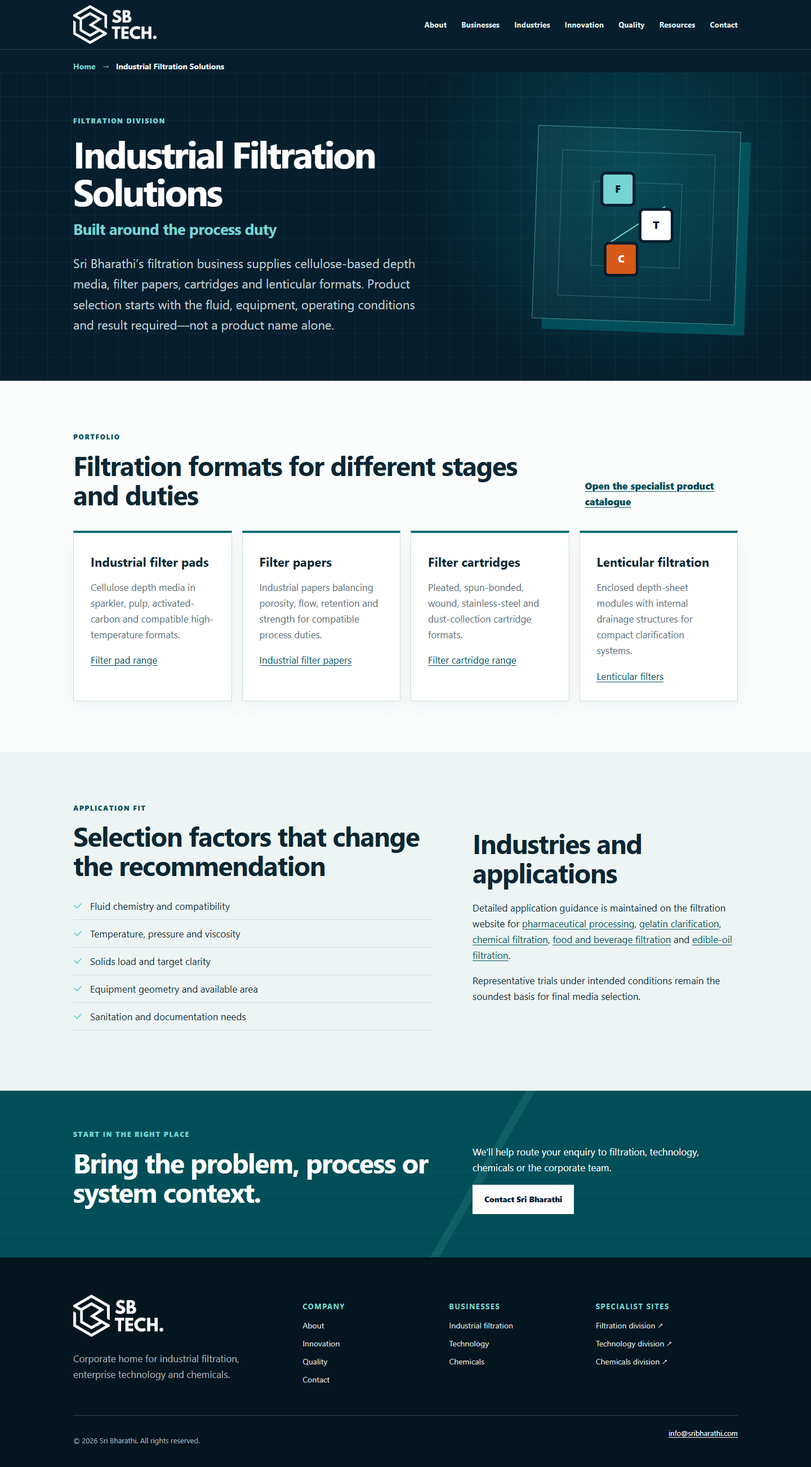
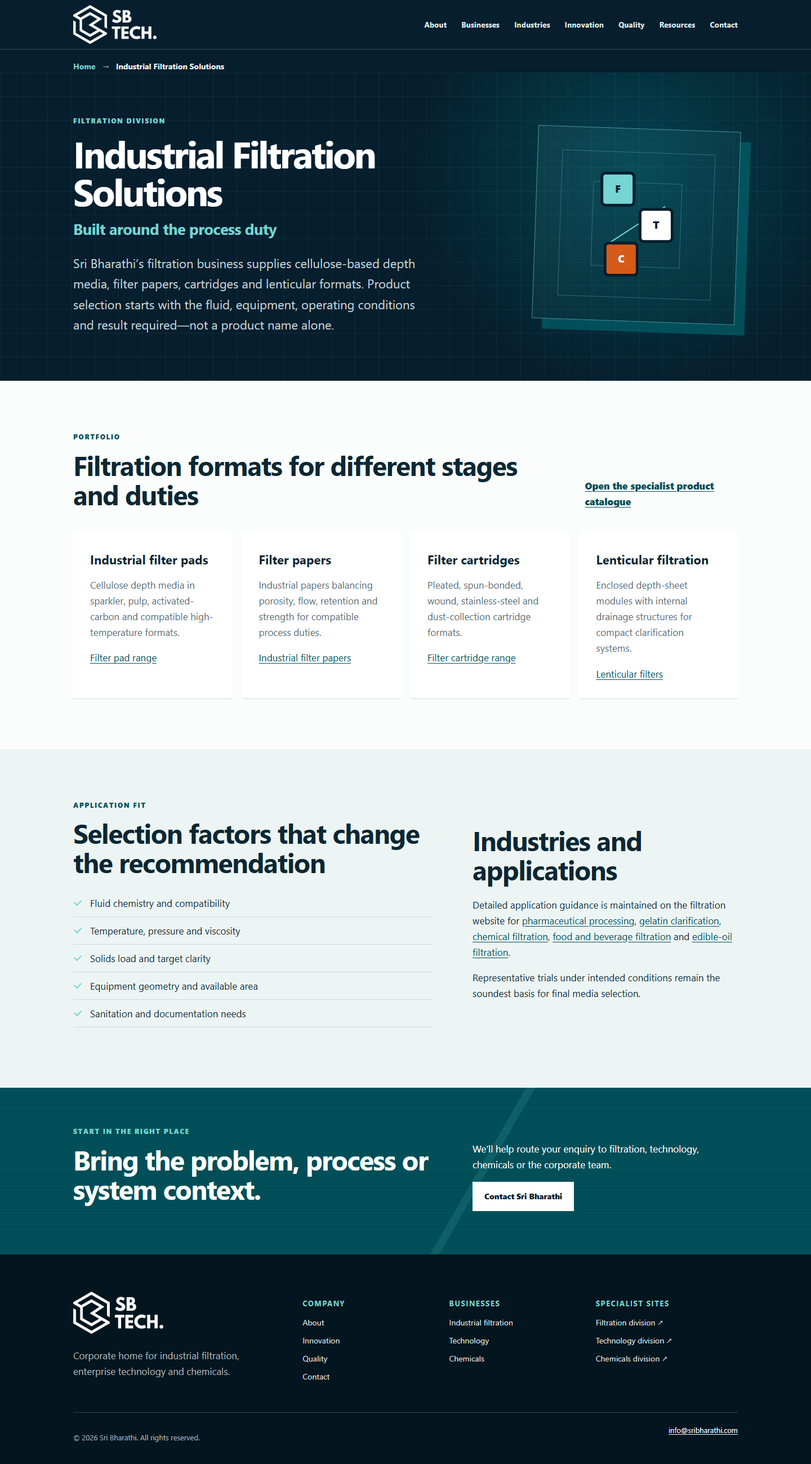
Refactor business overview sections and update HTML structure for improved clarity and navigation
- Updated index.html to replace the business overview section with a new division panel layout for better user experience.
- Modified generate-site.mjs to dynamically generate division panels for filtration, technology, and chemicals.
- Adjusted CSS styles for division panels to enhance responsiveness and visual appeal.
- Updated various screenshots to reflect recent design changes.

diff --git a/businesses/index.html b/businesses/index.html
@@ -1,1 +1,1 @@
-<!doctype html><html lang="en-IN"><head><meta charset="utf-8"><meta name="viewport" content="width=device-width,initial-scale=1"><title>Sri Bharathi Businesses | Filtration, Technology & Chemicals</title><meta name="description" content="Compare Sri Bharathi’s filtration, technology and chemicals businesses and find the specialist division for your technical requirement."><meta name="robots" content="index,follow,max-image-preview:large"><link rel="canonical" href="https://sribharathi.com/businesses/"><meta property="og:type" content="website"><meta property="og:site_name" content="Sri Bharathi"><meta property="og:title" content="Sri Bharathi Businesses | Filtration, Technology & Chemicals"><meta property="og:description" content="Compare Sri Bharathi’s filtration, technology and chemicals businesses and find the specialist division for your technical requirement."><meta property="og:url" content="https://sribharathi.com/businesses/"><meta property="og:image" content="https://sribharathi.com/assets/images/sri-bharathi-logo.png"><meta name="twitter:card" content="summary_large_image"><meta name="twitter:title" content="Sri Bharathi Businesses | Filtration, Technology & Chemicals"><meta name="twitter:description" content="Compare Sri Bharathi’s filtration, technology and chemicals businesses and find the specialist division for your technical requirement."><meta name="theme-color" content="#061e2d"><link rel="icon" href="/favicon.ico" sizes="any"><link rel="icon" href="/assets/favicon-32.png" type="image/png" sizes="32x32"><link rel="apple-touch-icon" href="/assets/apple-touch-icon.png" sizes="180x180"><link rel="stylesheet" href="/assets/styles.css"><script type="application/ld+json">{"@context":"https://schema.org","@graph":[{"@type":"Organization","@id":"https://sribharathi.com/#organization","name":"Sri Bharathi","url":"https://sribharathi.com/","logo":{"@type":"ImageObject","url":"https://sribharathi.com/assets/images/sri-bharathi-logo.png"},"email":"info@sribharathi.com","telephone":"+91-94202-20324","subOrganization":[{"@type":"Organization","name":"Sri Bharathi Filtration Division","url":"https://filter.sribharathi.com/"},{"@type":"Organization","name":"Sri Bharathi Tech","url":"https://tech.sribharathi.com/"},{"@type":"Organization","name":"Sri Bharathi Chemicals","url":"https://chemical.sribharathi.com/"}]},{"@type":"WebSite","@id":"https://sribharathi.com/#website","url":"https://sribharathi.com/","name":"Sri Bharathi","publisher":{"@id":"https://sribharathi.com/#organization"},"inLanguage":"en-IN"},{"@type":"WebPage","@id":"https://sribharathi.com/businesses/#webpage","url":"https://sribharathi.com/businesses/","name":"Sri Bharathi Businesses | Filtration, Technology & Chemicals","description":"Compare Sri Bharathi’s filtration, technology and chemicals businesses and find the specialist division for your technical requirement.","isPartOf":{"@id":"https://sribharathi.com/#website"},"about":{"@id":"https://sribharathi.com/#organization"},"inLanguage":"en-IN","breadcrumb":{"@id":"https://sribharathi.com/businesses/#breadcrumb"}},{"@type":"BreadcrumbList","@id":"https://sribharathi.com/businesses/#breadcrumb","itemListElement":[{"@type":"ListItem","position":1,"name":"Home","item":"https://sribharathi.com/"},{"@type":"ListItem","position":2,"name":"Sri Bharathi Business Divisions","item":"https://sribharathi.com/businesses/"}]}]}</script><script src="/assets/site.js" defer></script></head><body><header class="site-header"><div class="wrap header-inner"><a class="brand" href="/" aria-label="Sri Bharathi home"><img src="/assets/images/sri-bharathi-logo.png" width="220" height="103" alt="Sri Bharathi" decoding="async"></a><nav class="desktop-nav" aria-label="Primary"><a href="/about/">About</a><a href="/businesses/" aria-current="page">Businesses</a><a href="/industries/">Industries</a><a href="/innovation/">Innovation</a><a href="/quality/">Quality</a><a href="/resources/">Resources</a><a href="/contact/">Contact</a></nav><button class="menu-button" type="button" aria-expanded="false" aria-controls="mobile-nav"><span class="sr-only">Open navigation</span><i></i><i></i><i></i></button></div><nav id="mobile-nav" class="mobile-nav" aria-label="Mobile" hidden><a href="/about/">About</a><a href="/businesses/" aria-current="page">Businesses</a><a href="/industries/">Industries</a><a href="/innovation/">Innovation</a><a href="/quality/">Quality</a><a href="/resources/">Resources</a><a href="/contact/">Contact</a></nav></header><nav class="breadcrumbs wrap" aria-label="Breadcrumb"><ol><li><a href="/">Home</a></li><li><span aria-current="page">Sri Bharathi Business Divisions</span></li></ol></nav><main id="main"><section class="hero inner-hero"><div class="wrap hero-grid"><div><p class="eyebrow">Our businesses</p><h1>Sri Bharathi Business Divisions</h1><p class="hero-statement">Three businesses, clearly defined</p><p class="lede">Each Sri Bharathi business has a distinct technical focus and specialist website. Use this overview to understand the boundaries, capabilities and most useful next destination.</p></div><div class="hero-mark" aria-hidden="true"><span>F</span><span>T</span><span>C</span><i></i></div></div></section><section class="wrap section"><div class="business-row"><div class="business-index">01</div><div><h2>Industrial filtration</h2><p>Manufactured filtration media and components for clarification, polishing and compatible particulate-control duties.</p><ul class="inline-list"><li>Filter pads</li><li>Filter papers</li><li>Cartridges</li><li>Lenticular filters</li></ul></div><div class="actions"><a class="button" href="/filtration/">Corporate filtration overview</a><a class="text-link" href="https://filter.sribharathi.com/">Specialist filtration website</a></div></div><div class="business-row"><div class="business-index">02</div><div><h2>Technology</h2><p>Enterprise software services spanning mainframe modernisation, Java development, AI and machine learning, testing and mobile applications.</p><ul class="inline-list"><li>Modernisation</li><li>Java</li><li>AI &amp; ML</li><li>Quality engineering</li></ul></div><div class="actions"><a class="button" href="/technology/">Corporate technology overview</a><a class="text-link" href="https://tech.sribharathi.com/">Specialist technology website</a></div></div><div class="business-row"><div class="business-index">03</div><div><h2>Chemicals</h2><p>Customer-led chemical manufacturing services, including contract manufacturing, custom manufacturing, blending and private labelling.</p><ul class="inline-list"><li>Contract manufacturing</li><li>Custom manufacture</li><li>Blending</li></ul></div><div class="actions"><a class="button" href="/chemicals/">Corporate chemicals overview</a><a class="text-link" href="https://chemical.sribharathi.com/">Specialist chemicals website</a></div></div></section><section class="cta"><div class="wrap split"><div><p class="eyebrow">Start in the right place</p><h2>Bring the problem, process or system context.</h2></div><div><p>We’ll help route your enquiry to filtration, technology, chemicals or the corporate team.</p><a class="button light" href="/contact/">Contact Sri Bharathi</a></div></div></section></main><footer class="site-footer"><div class="wrap footer-grid"><div><img src="/assets/images/sri-bharathi-logo.png" width="190" height="89" alt="Sri Bharathi" loading="lazy" decoding="async"><p>Corporate home for industrial filtration, enterprise technology and chemicals.</p></div><div><h2>Company</h2><a href="/about/">About</a><a href="/innovation/">Innovation</a><a href="/quality/">Quality</a><a href="/contact/">Contact</a></div><div><h2>Businesses</h2><a href="/filtration/">Industrial filtration</a><a href="/technology/">Technology</a><a href="/chemicals/">Chemicals</a></div><div><h2>Specialist sites</h2><a href="https://filter.sribharathi.com/">Filtration division ↗</a><a href="https://tech.sribharathi.com/">Technology division ↗</a><a href="https://chemical.sribharathi.com/">Chemicals division ↗</a></div></div><div class="wrap footer-base"><p>© 2026 Sri Bharathi. All rights reserved.</p><a href="mailto:info@sribharathi.com">info@sribharathi.com</a></div></footer></body></html>
+<!doctype html><html lang="en-IN"><head><meta charset="utf-8"><meta name="viewport" content="width=device-width,initial-scale=1"><title>Sri Bharathi Businesses | Filtration, Technology & Chemicals</title><meta name="description" content="Compare Sri Bharathi’s filtration, technology and chemicals businesses and find the specialist division for your technical requirement."><meta name="robots" content="index,follow,max-image-preview:large"><link rel="canonical" href="https://sribharathi.com/businesses/"><meta property="og:type" content="website"><meta property="og:site_name" content="Sri Bharathi"><meta property="og:title" content="Sri Bharathi Businesses | Filtration, Technology & Chemicals"><meta property="og:description" content="Compare Sri Bharathi’s filtration, technology and chemicals businesses and find the specialist division for your technical requirement."><meta property="og:url" content="https://sribharathi.com/businesses/"><meta property="og:image" content="https://sribharathi.com/assets/images/sri-bharathi-logo.png"><meta name="twitter:card" content="summary_large_image"><meta name="twitter:title" content="Sri Bharathi Businesses | Filtration, Technology & Chemicals"><meta name="twitter:description" content="Compare Sri Bharathi’s filtration, technology and chemicals businesses and find the specialist division for your technical requirement."><meta name="theme-color" content="#061e2d"><link rel="icon" href="/favicon.ico" sizes="any"><link rel="icon" href="/assets/favicon-32.png" type="image/png" sizes="32x32"><link rel="apple-touch-icon" href="/assets/apple-touch-icon.png" sizes="180x180"><link rel="stylesheet" href="/assets/styles.css"><script type="application/ld+json">{"@context":"https://schema.org","@graph":[{"@type":"Organization","@id":"https://sribharathi.com/#organization","name":"Sri Bharathi","url":"https://sribharathi.com/","logo":{"@type":"ImageObject","url":"https://sribharathi.com/assets/images/sri-bharathi-logo.png"},"email":"info@sribharathi.com","telephone":"+91-94202-20324","subOrganization":[{"@type":"Organization","name":"Sri Bharathi Filtration Division","url":"https://filter.sribharathi.com/"},{"@type":"Organization","name":"Sri Bharathi Tech","url":"https://tech.sribharathi.com/"},{"@type":"Organization","name":"Sri Bharathi Chemicals","url":"https://chemical.sribharathi.com/"}]},{"@type":"WebSite","@id":"https://sribharathi.com/#website","url":"https://sribharathi.com/","name":"Sri Bharathi","publisher":{"@id":"https://sribharathi.com/#organization"},"inLanguage":"en-IN"},{"@type":"WebPage","@id":"https://sribharathi.com/businesses/#webpage","url":"https://sribharathi.com/businesses/","name":"Sri Bharathi Businesses | Filtration, Technology & Chemicals","description":"Compare Sri Bharathi’s filtration, technology and chemicals businesses and find the specialist division for your technical requirement.","isPartOf":{"@id":"https://sribharathi.com/#website"},"about":{"@id":"https://sribharathi.com/#organization"},"inLanguage":"en-IN","breadcrumb":{"@id":"https://sribharathi.com/businesses/#breadcrumb"}},{"@type":"BreadcrumbList","@id":"https://sribharathi.com/businesses/#breadcrumb","itemListElement":[{"@type":"ListItem","position":1,"name":"Home","item":"https://sribharathi.com/"},{"@type":"ListItem","position":2,"name":"Sri Bharathi Business Divisions","item":"https://sribharathi.com/businesses/"}]}]}</script><script src="/assets/site.js" defer></script></head><body><header class="site-header"><div class="wrap header-inner"><a class="brand" href="/" aria-label="Sri Bharathi home"><img src="/assets/images/sri-bharathi-logo.png" width="220" height="103" alt="Sri Bharathi" decoding="async"></a><nav class="desktop-nav" aria-label="Primary"><a href="/about/">About</a><a href="/businesses/" aria-current="page">Businesses</a><a href="/industries/">Industries</a><a href="/innovation/">Innovation</a><a href="/quality/">Quality</a><a href="/resources/">Resources</a><a href="/contact/">Contact</a></nav><button class="menu-button" type="button" aria-expanded="false" aria-controls="mobile-nav"><span class="sr-only">Open navigation</span><i></i><i></i><i></i></button></div><nav id="mobile-nav" class="mobile-nav" aria-label="Mobile" hidden><a href="/about/">About</a><a href="/businesses/" aria-current="page">Businesses</a><a href="/industries/">Industries</a><a href="/innovation/">Innovation</a><a href="/quality/">Quality</a><a href="/resources/">Resources</a><a href="/contact/">Contact</a></nav></header><nav class="breadcrumbs wrap" aria-label="Breadcrumb"><ol><li><a href="/">Home</a></li><li><span aria-current="page">Sri Bharathi Business Divisions</span></li></ol></nav><main id="main"><section class="hero inner-hero"><div class="wrap hero-grid"><div><p class="eyebrow">Our businesses</p><h1>Sri Bharathi Business Divisions</h1><p class="hero-statement">Three businesses, clearly defined</p><p class="lede">Each Sri Bharathi business has a distinct technical focus and specialist website. Use this overview to understand the boundaries, capabilities and most useful next destination.</p></div><div class="hero-mark" aria-hidden="true"><span>F</span><span>T</span><span>C</span><i></i></div></div></section><section class="division-panels" aria-label="Sri Bharathi business divisions"><a class="division-panel division-filtration" href="/filtration/"><span class="division-index">01</span><span class="division-body"><h2>Filtration</h2><p>Filter pads, papers, cartridges and lenticular systems for clarification duties.</p></span><span class="division-cta">Go to filtration<i aria-hidden="true"></i></span></a><a class="division-panel division-technology" href="/technology/"><span class="division-index">02</span><span class="division-body"><h2>Technology</h2><p>Enterprise software, modernisation, AI and quality engineering services.</p></span><span class="division-cta">Go to technology<i aria-hidden="true"></i></span></a><a class="division-panel division-chemicals" href="/chemicals/"><span class="division-index">03</span><span class="division-body"><h2>Chemicals</h2><p>Contract manufacturing, custom manufacture, blending and private labelling.</p></span><span class="division-cta">Go to chemicals<i aria-hidden="true"></i></span></a></section><section class="wrap section"><div class="business-row"><div class="business-index">01</div><div><h2>Industrial filtration</h2><p>Manufactured filtration media and components for clarification, polishing and compatible particulate-control duties.</p><ul class="inline-list"><li>Filter pads</li><li>Filter papers</li><li>Cartridges</li><li>Lenticular filters</li></ul></div><div class="actions"><a class="button" href="/filtration/">Corporate filtration overview</a><a class="text-link" href="https://filter.sribharathi.com/">Specialist filtration website</a></div></div><div class="business-row"><div class="business-index">02</div><div><h2>Technology</h2><p>Enterprise software services spanning mainframe modernisation, Java development, AI and machine learning, testing and mobile applications.</p><ul class="inline-list"><li>Modernisation</li><li>Java</li><li>AI &amp; ML</li><li>Quality engineering</li></ul></div><div class="actions"><a class="button" href="/technology/">Corporate technology overview</a><a class="text-link" href="https://tech.sribharathi.com/">Specialist technology website</a></div></div><div class="business-row"><div class="business-index">03</div><div><h2>Chemicals</h2><p>Customer-led chemical manufacturing services, including contract manufacturing, custom manufacturing, blending and private labelling.</p><ul class="inline-list"><li>Contract manufacturing</li><li>Custom manufacture</li><li>Blending</li></ul></div><div class="actions"><a class="button" href="/chemicals/">Corporate chemicals overview</a><a class="text-link" href="https://chemical.sribharathi.com/">Specialist chemicals website</a></div></div></section><section class="cta"><div class="wrap split"><div><p class="eyebrow">Start in the right place</p><h2>Bring the problem, process or system context.</h2></div><div><p>We’ll help route your enquiry to filtration, technology, chemicals or the corporate team.</p><a class="button light" href="/contact/">Contact Sri Bharathi</a></div></div></section></main><footer class="site-footer"><div class="wrap footer-grid"><div><img src="/assets/images/sri-bharathi-logo.png" width="190" height="89" alt="Sri Bharathi" loading="lazy" decoding="async"><p>Corporate home for industrial filtration, enterprise technology and chemicals.</p></div><div><h2>Company</h2><a href="/about/">About</a><a href="/innovation/">Innovation</a><a href="/quality/">Quality</a><a href="/contact/">Contact</a></div><div><h2>Businesses</h2><a href="/filtration/">Industrial filtration</a><a href="/technology/">Technology</a><a href="/chemicals/">Chemicals</a></div><div><h2>Specialist sites</h2><a href="https://filter.sribharathi.com/">Filtration division ↗</a><a href="https://tech.sribharathi.com/">Technology division ↗</a><a href="https://chemical.sribharathi.com/">Chemicals division ↗</a></div></div><div class="wrap footer-base"><p>© 2026 Sri Bharathi. All rights reserved.</p><a href="mailto:info@sribharathi.com">info@sribharathi.com</a></div></footer></body></html>

diff --git a/index.html b/index.html
@@ -1,12 +1,5 @@
 <!doctype html><html lang="en-IN"><head><meta charset="utf-8"><meta name="viewport" content="width=device-width,initial-scale=1"><title>Sri Bharathi | Filtration, Technology & Chemicals</title><meta name="description" content="Discover Sri Bharathi, the corporate parent connecting specialist businesses in industrial filtration, enterprise technology and chemical manufacturing."><meta name="robots" content="index,follow,max-image-preview:large"><link rel="canonical" href="https://sribharathi.com/"><meta property="og:type" content="website"><meta property="og:site_name" content="Sri Bharathi"><meta property="og:title" content="Sri Bharathi | Filtration, Technology & Chemicals"><meta property="og:description" content="Discover Sri Bharathi, the corporate parent connecting specialist businesses in industrial filtration, enterprise technology and chemical manufacturing."><meta property="og:url" content="https://sribharathi.com/"><meta property="og:image" content="https://sribharathi.com/assets/images/sri-bharathi-logo.png"><meta name="twitter:card" content="summary_large_image"><meta name="twitter:title" content="Sri Bharathi | Filtration, Technology & Chemicals"><meta name="twitter:description" content="Discover Sri Bharathi, the corporate parent connecting specialist businesses in industrial filtration, enterprise technology and chemical manufacturing."><meta name="theme-color" content="#061e2d"><link rel="icon" href="/favicon.ico" sizes="any"><link rel="icon" href="/assets/favicon-32.png" type="image/png" sizes="32x32"><link rel="apple-touch-icon" href="/assets/apple-touch-icon.png" sizes="180x180"><link rel="stylesheet" href="/assets/styles.css"><script type="application/ld+json">{"@context":"https://schema.org","@graph":[{"@type":"Organization","@id":"https://sribharathi.com/#organization","name":"Sri Bharathi","url":"https://sribharathi.com/","logo":{"@type":"ImageObject","url":"https://sribharathi.com/assets/images/sri-bharathi-logo.png"},"email":"info@sribharathi.com","telephone":"+91-94202-20324","subOrganization":[{"@type":"Organization","name":"Sri Bharathi Filtration Division","url":"https://filter.sribharathi.com/"},{"@type":"Organization","name":"Sri Bharathi Tech","url":"https://tech.sribharathi.com/"},{"@type":"Organization","name":"Sri Bharathi Chemicals","url":"https://chemical.sribharathi.com/"}]},{"@type":"WebSite","@id":"https://sribharathi.com/#website","url":"https://sribharathi.com/","name":"Sri Bharathi","publisher":{"@id":"https://sribharathi.com/#organization"},"inLanguage":"en-IN"},{"@type":"WebPage","@id":"https://sribharathi.com/#webpage","url":"https://sribharathi.com/","name":"Sri Bharathi | Filtration, Technology & Chemicals","description":"Discover Sri Bharathi, the corporate parent connecting specialist businesses in industrial filtration, enterprise technology and chemical manufacturing.","isPartOf":{"@id":"https://sribharathi.com/#website"},"about":{"@id":"https://sribharathi.com/#organization"},"inLanguage":"en-IN"}]}</script><script src="/assets/site.js" defer></script></head><body><header class="site-header"><div class="wrap header-inner"><a class="brand" href="/" aria-label="Sri Bharathi home"><img src="/assets/images/sri-bharathi-logo.png" width="220" height="103" alt="Sri Bharathi" decoding="async"></a><nav class="desktop-nav" aria-label="Primary"><a href="/about/">About</a><a href="/businesses/">Businesses</a><a href="/industries/">Industries</a><a href="/innovation/">Innovation</a><a href="/quality/">Quality</a><a href="/resources/">Resources</a><a href="/contact/">Contact</a></nav><button class="menu-button" type="button" aria-expanded="false" aria-controls="mobile-nav"><span class="sr-only">Open navigation</span><i></i><i></i><i></i></button></div><nav id="mobile-nav" class="mobile-nav" aria-label="Mobile" hidden><a href="/about/">About</a><a href="/businesses/">Businesses</a><a href="/industries/">Industries</a><a href="/innovation/">Innovation</a><a href="/quality/">Quality</a><a href="/resources/">Resources</a><a href="/contact/">Contact</a></nav></header><main id="main"><section class="hero"><div class="wrap hero-grid"><div><p class="eyebrow">Sri Bharathi corporate group</p><h1>Industrial Filtration, Technology & Chemicals</h1><p class="hero-statement">Engineering clarity across industry and technology</p><p class="lede">Sri Bharathi brings together industrial filtration, enterprise technology and chemical manufacturing services. This corporate hub explains how the three businesses relate—and directs technical enquiries to the specialists best placed to help.</p><div class="hero-actions"><a class="button" href="/businesses/">Explore our businesses</a><a class="text-link" href="/contact/">Contact Sri Bharathi</a></div></div><div class="hero-mark" aria-hidden="true"><span>F</span><span>T</span><span>C</span><i></i></div></div></section>
-      <section class="band" aria-labelledby="businesses-heading"><div class="wrap">
-        <p class="eyebrow">Three focused businesses</p><h2 id="businesses-heading">Specialist depth, connected thinking</h2>
-        <div class="cards three">
-          <article class="card card-number"><span>01</span><h3>Industrial filtration</h3><p>Cellulose filter pads, industrial filter papers, cartridges and lenticular formats for clarification and particulate-control duties.</p><a class="text-link" href="/filtration/">Sri Bharathi filtration overview</a></article>
-          <article class="card card-number"><span>02</span><h3>Technology</h3><p>Enterprise application modernisation, Java engineering, AI and machine learning, testing and mobile application development.</p><a class="text-link" href="/technology/">Sri Bharathi technology overview</a></article>
-          <article class="card card-number"><span>03</span><h3>Chemicals</h3><p>Contract and custom chemical manufacturing, blending and private-labelling services delivered around a defined customer specification.</p><a class="text-link" href="/chemicals/">Sri Bharathi chemicals overview</a></article>
-        </div>
-      </div></section>
+      <section class="division-panels" aria-label="Sri Bharathi business divisions"><a class="division-panel division-filtration" href="/filtration/"><span class="division-index">01</span><span class="division-body"><h2>Filtration</h2><p>Filter pads, papers, cartridges and lenticular systems for clarification duties.</p></span><span class="division-cta">Go to filtration<i aria-hidden="true"></i></span></a><a class="division-panel division-technology" href="/technology/"><span class="division-index">02</span><span class="division-body"><h2>Technology</h2><p>Enterprise software, modernisation, AI and quality engineering services.</p></span><span class="division-cta">Go to technology<i aria-hidden="true"></i></span></a><a class="division-panel division-chemicals" href="/chemicals/"><span class="division-index">03</span><span class="division-body"><h2>Chemicals</h2><p>Contract manufacturing, custom manufacture, blending and private labelling.</p></span><span class="division-cta">Go to chemicals<i aria-hidden="true"></i></span></a></section>
       <section class="wrap section split capability-section"><div><p class="eyebrow">Where we contribute</p><h2>Capabilities organised around real operating needs</h2><p>Process industries need media that fits fluid, equipment and operating conditions. Enterprises need software that respects existing business logic while improving maintainability. Sri Bharathi’s businesses address those different needs through specialist teams, not a one-size-fits-all offer.</p><a class="button secondary" href="/industries/">Explore industries and challenges</a></div><div class="signal-panel" aria-label="Capability pathway"><div><b>Process input</b><span>Application, conditions and constraints</span></div><div><b>Specialist assessment</b><span>Filtration, technology or chemical route</span></div><div><b>Defined outcome</b><span>Product, service or engineering engagement</span></div></div></section>
       <section class="band dark"><div class="wrap split"><div><p class="eyebrow">Industrial + digital</p><h2>Better decisions at the boundary of manufacturing and software</h2><p>Filtration operations generate process, quality and maintenance information. Technology teams turn information into usable systems, while the chemicals business serves defined manufacturing requirements. Our corporate structure creates a practical setting for exploring automation, computer vision, integration and decision support without confusing those capabilities with the specialist product businesses.</p></div><div><h3>Start with the right specialist</h3><ul class="check-list"><li>Filtration duty or media selection</li><li>Enterprise software, AI or legacy modernisation</li><li>Custom chemical manufacturing or blending</li></ul><a class="button light" href="/contact/">Route an enquiry</a></div></div></section>
       <section class="wrap section"><div class="section-head"><div><p class="eyebrow">Knowledge centre</p><h2>Technical context before a commercial conversation</h2></div><a class="text-link" href="/resources/">Browse all resources</a></div><div class="cards two"><article class="card"><p class="tag">Filtration guide</p><h3>Understanding depth filtration</h3><p>Why porous media structure, solids loading and operating conditions matter alongside a nominal retention value.</p><a class="text-link" href="/resources/understanding-depth-filtration/">Read the depth-filtration guide</a></article><article class="card"><p class="tag">Corporate approach</p><h3>Quality begins with a defined requirement</h3><p>How application context, verification and documentation support sound technical decisions.</p><a class="text-link" href="/quality/">Our approach to quality</a></article></div></section><section class="cta"><div class="wrap split"><div><p class="eyebrow">Start in the right place</p><h2>Bring the problem, process or system context.</h2></div><div><p>We’ll help route your enquiry to filtration, technology, chemicals or the corporate team.</p><a class="button light" href="/contact/">Contact Sri Bharathi</a></div></div></section></main><footer class="site-footer"><div class="wrap footer-grid"><div><img src="/assets/images/sri-bharathi-logo.png" width="190" height="89" alt="Sri Bharathi" loading="lazy" decoding="async"><p>Corporate home for industrial filtration, enterprise technology and chemicals.</p></div><div><h2>Company</h2><a href="/about/">About</a><a href="/innovation/">Innovation</a><a href="/quality/">Quality</a><a href="/contact/">Contact</a></div><div><h2>Businesses</h2><a href="/filtration/">Industrial filtration</a><a href="/technology/">Technology</a><a href="/chemicals/">Chemicals</a></div><div><h2>Specialist sites</h2><a href="https://filter.sribharathi.com/">Filtration division ↗</a><a href="https://tech.sribharathi.com/">Technology division ↗</a><a href="https://chemical.sribharathi.com/">Chemicals division ↗</a></div></div><div class="wrap footer-base"><p>© 2026 Sri Bharathi. All rights reserved.</p><a href="mailto:info@sribharathi.com">info@sribharathi.com</a></div></footer></body></html>

diff --git a/assets/styles.css b/assets/styles.css
@@ -3,14 +3,30 @@
 body{background:var(--paper);color:var(--ink)}a{color:var(--teal-dark)}
 .site-header{height:88px;background:var(--navy);border:0;border-bottom:1px solid rgba(118,212,210,.25);position:sticky;top:0}.brand{height:72px}.brand img{width:148px;filter:brightness(0) invert(1)}
 .desktop-nav a{color:#dcebed;font-size:13px;letter-spacing:.025em}.desktop-nav a:hover,.desktop-nav a[aria-current=page]{color:var(--aqua)}
-.breadcrumbs.wrap{width:100%;max-width:none;margin:0;background:var(--navy);padding:18px max(20px,calc((100vw - var(--max))/2)) 18px}.breadcrumbs ol{gap:0;color:#afc6cb;align-items:center}.breadcrumbs li{min-width:0}.breadcrumbs li:first-child{flex:none}.breadcrumbs li:last-child{overflow:hidden;text-overflow:ellipsis;white-space:nowrap}.breadcrumbs li+li:before{content:"→";margin:0 12px;color:var(--aqua)}.breadcrumbs a{color:var(--aqua);font-weight:750;text-decoration:none}.breadcrumbs a:hover{text-decoration:underline}.breadcrumbs [aria-current=page]{color:#e9f4f5;font-weight:650}
+.breadcrumbs.wrap{width:100%;max-width:none;margin:0;background:var(--navy);padding:18px max(20px,calc((100vw - var(--max))/2)) 0}.breadcrumbs ol{gap:0;color:#afc6cb;align-items:center}.breadcrumbs li{min-width:0}.breadcrumbs li:first-child{flex:none}.breadcrumbs li:last-child{overflow:hidden;text-overflow:ellipsis;white-space:nowrap}.breadcrumbs li+li:before{content:"→";margin:0 12px;color:var(--aqua)}.breadcrumbs a{color:var(--aqua);font-weight:750;text-decoration:none}.breadcrumbs a:hover{text-decoration:underline}.breadcrumbs [aria-current=page]{color:#e9f4f5;font-weight:650}
 .hero{color:#fff;background-color:var(--navy);background-image:linear-gradient(rgba(118,212,210,.07) 1px,transparent 1px),linear-gradient(90deg,rgba(118,212,210,.07) 1px,transparent 1px),radial-gradient(circle at 78% 32%,rgba(0,111,120,.45),transparent 33%);background-size:42px 42px,42px 42px,auto;padding:110px 0 104px}.inner-hero{padding:76px 0 82px}
 .hero h1{color:#fff;max-width:900px}.hero-statement{max-width:760px;margin:18px 0 0;color:var(--aqua);font-size:clamp(19px,2.1vw,27px);font-weight:750;line-height:1.22;letter-spacing:-.018em}.hero .lede{color:#c2d3d7}.hero .eyebrow{color:var(--aqua)}.hero .text-link{color:var(--aqua)}
 .hero-mark{width:min(100%,360px);aspect-ratio:1.05;border:1px solid rgba(118,212,210,.58);border-radius:0;background:linear-gradient(135deg,rgba(118,212,210,.08),rgba(0,111,120,.12));box-shadow:18px 18px 0 rgba(0,111,120,.55);transform:rotate(2deg)}.hero-mark:before,.hero-mark:after{border-radius:0;border-color:rgba(118,212,210,.32)}
 .hero-mark span{border-radius:4px;background:var(--aqua);color:var(--navy);box-shadow:0 0 0 5px var(--navy);transform:rotate(-2deg)}.hero-mark span:nth-child(2){background:#fff;color:var(--navy)}.hero-mark span:nth-child(3){background:var(--orange);color:#fff}.hero-mark i{background:var(--aqua)}
 .eyebrow,.tag{color:var(--teal-dark)}.button{background:var(--teal);border-color:var(--teal)}.button:hover{background:var(--teal-dark);border-color:var(--teal-dark)}.button.secondary{color:var(--teal-dark);border-color:var(--teal);background:transparent}.button.light{color:var(--navy)}
 .band{background:var(--soft)}.band.dark{background:var(--navy-2)}.band.dark .eyebrow{color:var(--aqua)}
-.card{border:1px solid var(--line);border-top:4px solid var(--teal);box-shadow:0 12px 30px rgba(6,30,45,.05)}.card-number>span,.step,.business-index,.process span{color:var(--teal-dark)}.card.accent{background:var(--teal-dark);border-color:var(--teal-dark)}
+.division-panels{display:grid;grid-template-columns:repeat(3,1fr)}
+.division-panel{position:relative;display:flex;flex-direction:column;justify-content:space-between;gap:28px;min-height:320px;padding:44px 40px;color:#fff;text-decoration:none;overflow:hidden;transition:padding-left .25s ease}
+.division-panel:hover{padding-left:52px}
+.division-panel:hover .division-cta i{transform:translateX(6px)}
+.division-index{font-size:14px;font-weight:800;letter-spacing:.12em;opacity:.7}
+.division-body h2{font-size:clamp(26px,2.6vw,34px);margin:0 0 12px;letter-spacing:-.02em;color:#fff}
+.division-body p{margin:0;max-width:34ch;opacity:.85;font-size:15px}
+.division-cta{display:inline-flex;align-items:center;gap:10px;font-weight:800;font-size:13px;text-transform:uppercase;letter-spacing:.08em}
+.division-cta i{width:20px;height:2px;background:currentColor;position:relative;transition:transform .25s ease}
+.division-cta i:before{content:"";position:absolute;right:0;top:-3px;width:8px;height:8px;border-top:2px solid currentColor;border-right:2px solid currentColor;transform:rotate(45deg)}
+.division-filtration{background:var(--teal-dark)}
+.division-technology{background:var(--navy)}
+.division-chemicals{background:var(--orange-dark)}
+.card{border:0;border-radius:2px;box-shadow:0 1px 0 var(--line);position:relative}
+.card:before{content:"";position:absolute;left:0;top:0;bottom:0;width:3px;background:var(--teal);opacity:0;transition:opacity .2s ease}
+.card:hover:before{opacity:1}
+.card-number>span,.step,.business-index,.process span{color:var(--teal-dark)}.card.accent{background:var(--teal-dark);border-color:var(--teal-dark)}
 .capability-section{align-items:stretch}.capability-section>div:first-child{padding-block:14px}.capability-section .signal-panel{display:flex;flex-direction:column;justify-content:center}.signal-panel{border:0;background:#fff;padding:12px 34px;box-shadow:12px 12px 0 var(--line)}.check-list li:before{border-color:var(--aqua)}.fact-panel{background:var(--navy-2);border-left:6px solid var(--aqua)}
 .business-row{border-color:var(--line)}.business-index{font-size:52px;line-height:1}.inline-list li{background:#dceceb;color:var(--navy)}
 .industry-grid{border-color:var(--line)}.industry-grid article{border-color:var(--line);background:#fff}.industry-grid article:nth-child(3n+2){background:var(--soft)}
@@ -18,5 +34,5 @@ body{background:var(--paper);color:var(--ink)}a{color:var(--teal-dark)}
 .resource-feature{background:var(--navy);color:#fff}.resource-feature .tag{color:var(--aqua)}.resource-feature p{color:#c2d3d7}.media-diagram{border-color:var(--aqua);background:repeating-linear-gradient(91deg,#cbe7e5 0 9px,#f8ffff 10px 18px)}.media-diagram span{background:var(--teal)}
 .callout{border-color:var(--teal);background:var(--soft)}.cta{background-color:var(--teal-dark);background-image:linear-gradient(120deg,transparent 0 58%,rgba(118,212,210,.12) 58% 59%,transparent 59%),linear-gradient(rgba(118,212,210,.06) 1px,transparent 1px);background-size:auto,36px 36px}.cta .eyebrow{color:var(--aqua)}
 .site-footer{background:#03151f}.footer-grid h2{color:var(--aqua)}:focus-visible{outline-color:var(--aqua)}
-@media(max-width:980px){.menu-button i{background:#fff}.mobile-nav{top:88px;background:var(--navy);border-color:rgba(118,212,210,.25)}.mobile-nav a{color:#e4f1f2}.mobile-nav a[aria-current=page]{color:var(--aqua)}}
-@media(max-width:680px){.breadcrumbs.wrap{padding:14px 14px 0}.breadcrumbs ol{font-size:13px}.hero,.inner-hero{padding:62px 0}.hero-mark{width:240px;box-shadow:10px 10px 0 rgba(0,111,120,.55)}.site-header{height:76px}.mobile-nav{top:76px}}
+@media(max-width:980px){.menu-button i{background:#fff}.mobile-nav{top:88px;background:var(--navy);border-color:rgba(118,212,210,.25)}.mobile-nav a{color:#e4f1f2}.mobile-nav a[aria-current=page]{color:var(--aqua)}.division-panels{grid-template-columns:1fr}}
+@media(max-width:680px){.breadcrumbs.wrap{padding:14px 14px 0}.breadcrumbs ol{font-size:13px}.hero,.inner-hero{padding:62px 0}.hero-mark{width:240px;box-shadow:10px 10px 0 rgba(0,111,120,.55)}.site-header{height:76px}.mobile-nav{top:76px}.division-panel{min-height:220px;padding:32px 24px}.division-panel:hover{padding-left:24px}}
